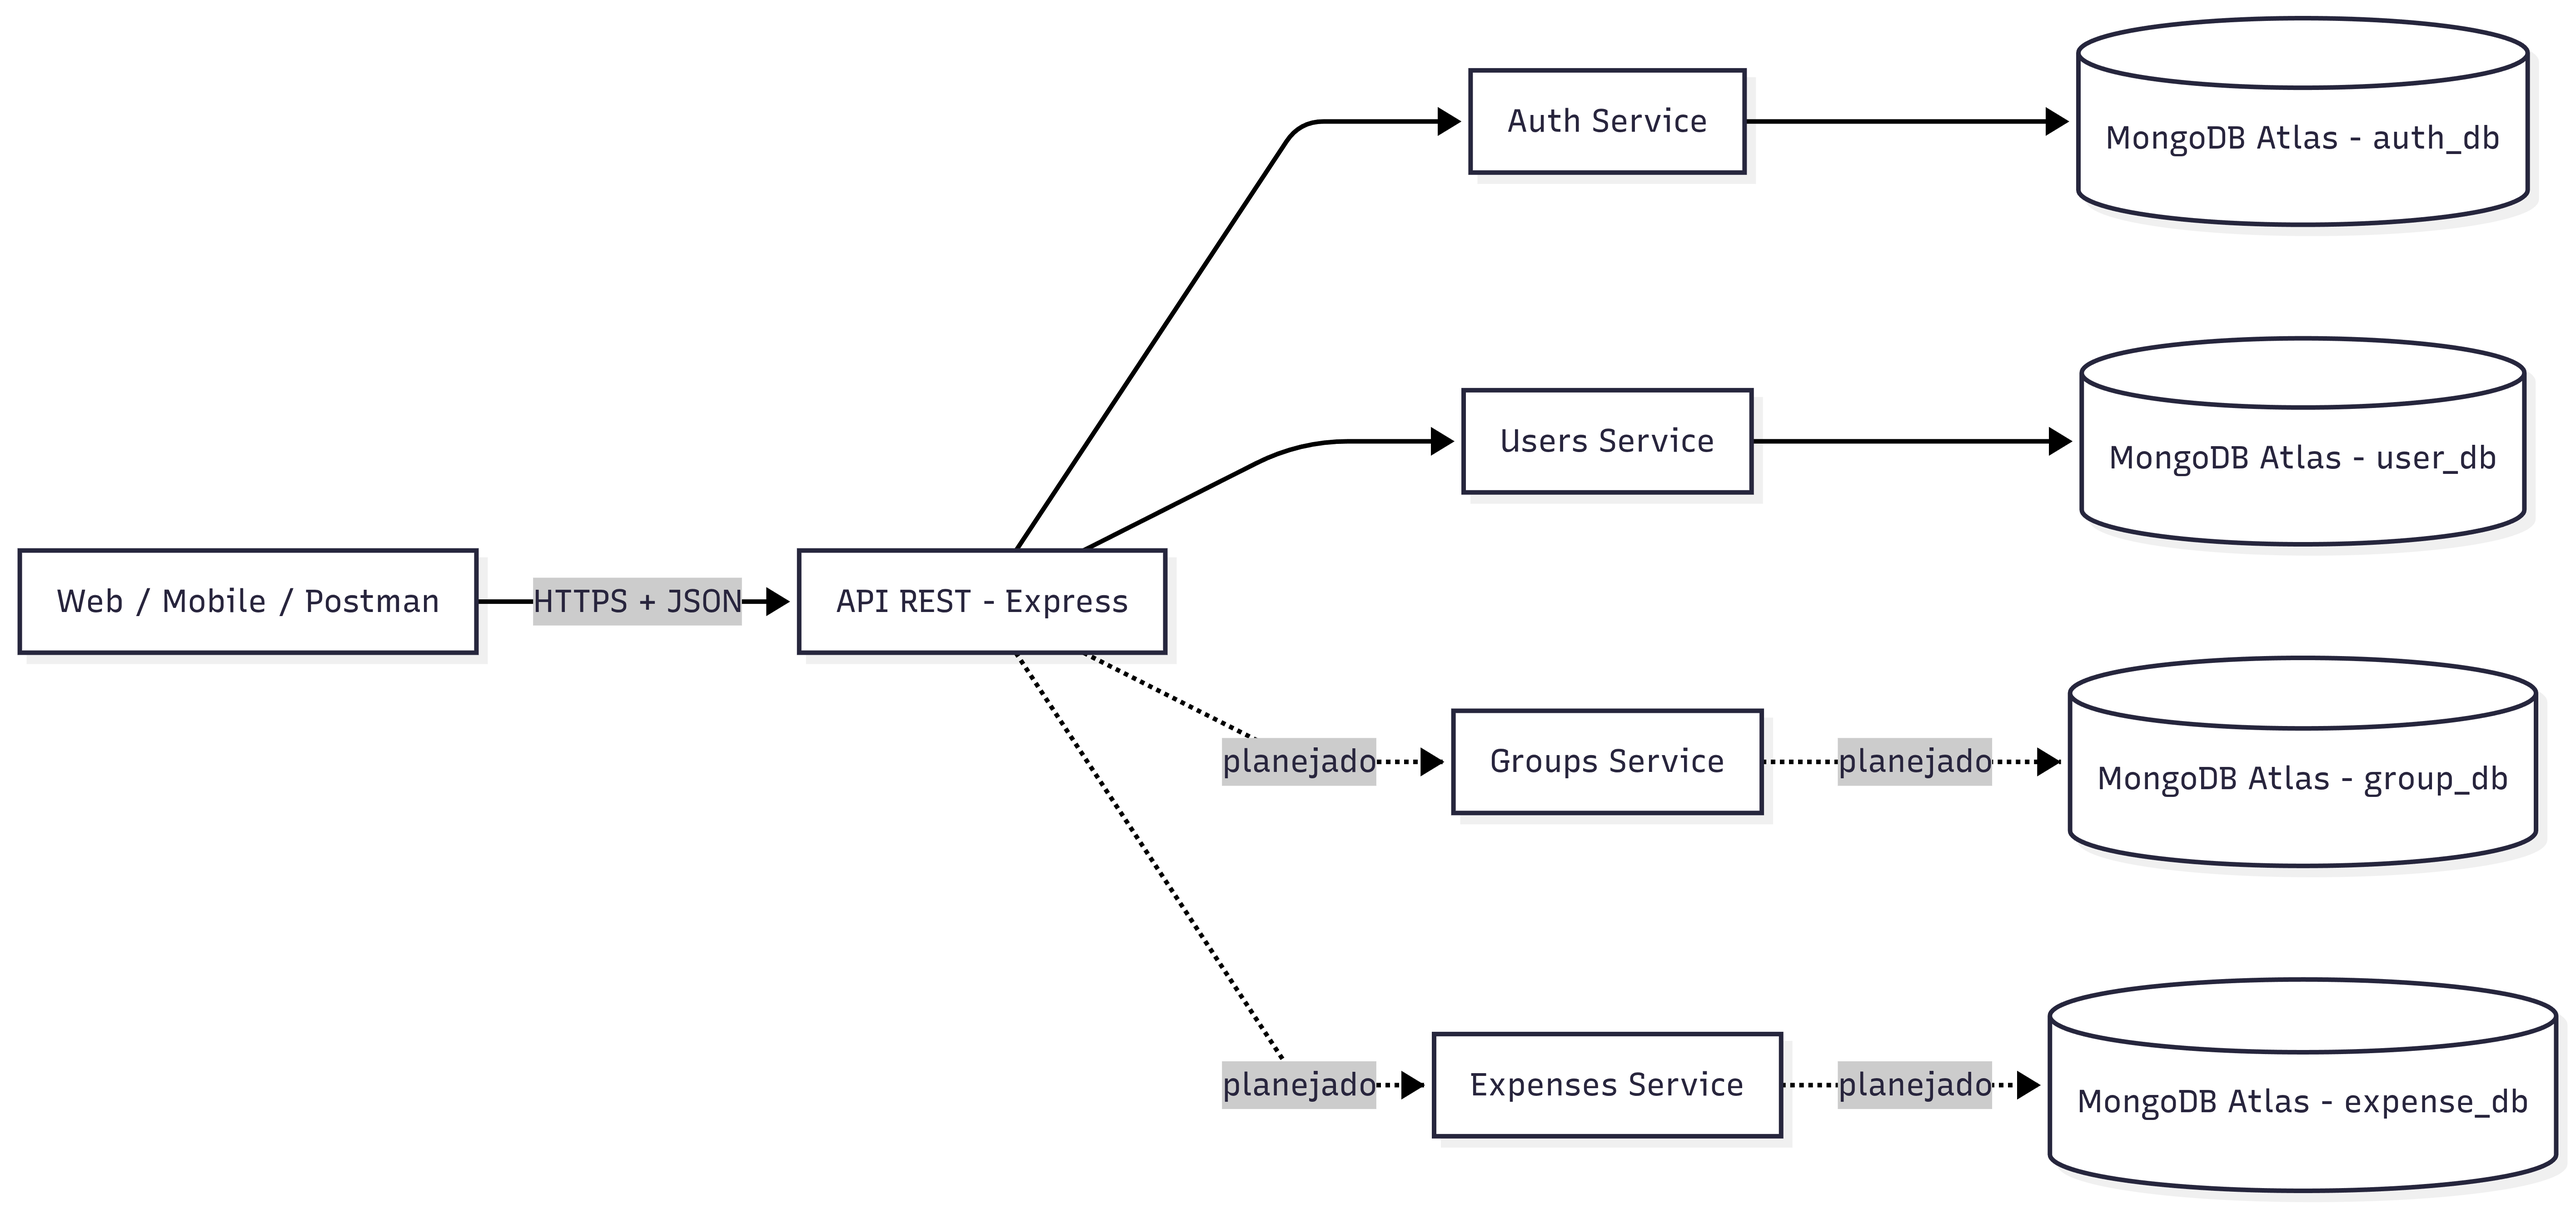
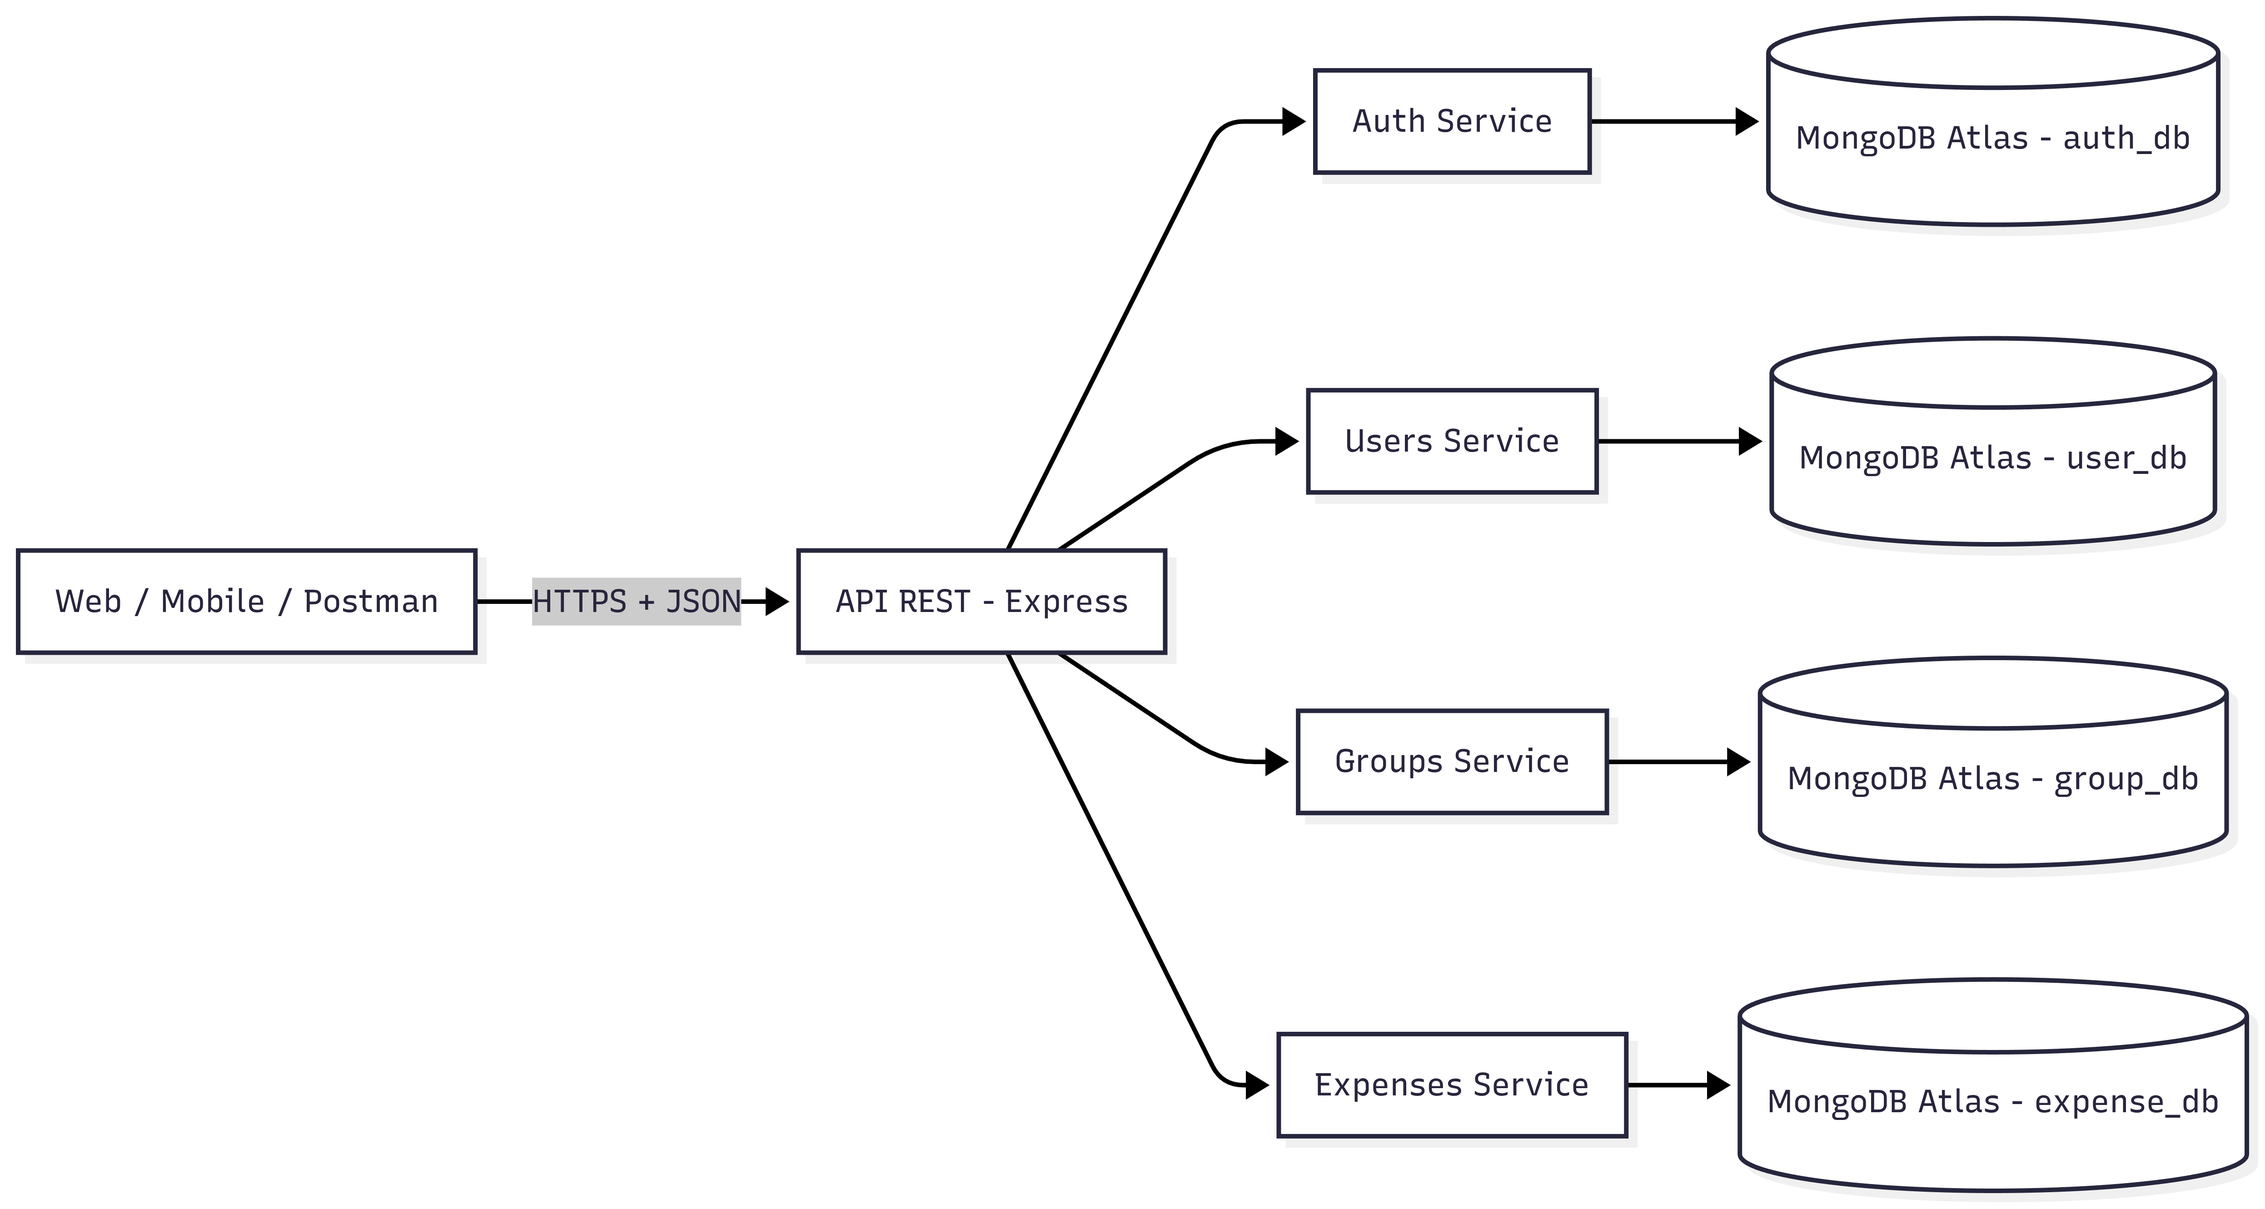
documentacao(arquitetura): garantindo compatibilidade com estado atual do projeto

diff --git a/docs/05-Arquitetura da Solução.md b/docs/05-Arquitetura da Solução.md
@@ -10,7 +10,7 @@ Abaixo, apresentamos o diagrama que ilustra a integração crítica entre os com
 
 ### Detalhamento dos Componentes
 
-A arquitetura do RATE.IO evoluiu para um modelo **orientado a API** com separação de responsabilidades por domínio e soberania de dados por banco. No estado atual, os módulos de **Auth** e **Users** já estão implementados e operacionais no backend; **Groups** e **Expenses** permanecem como próximos incrementos planejados.
+A arquitetura do RATE.IO evoluiu para um modelo **orientado a API** com separação de responsabilidades por domínio e soberania de dados por banco. No estado atual, os módulos de **Auth**, **Users**, **Groups** e **Expenses** já estão implementados e operacionais no backend.
 
 A solução está organizada em quatro camadas:
 
@@ -30,19 +30,19 @@ A solução está organizada em quatro camadas:
 
 - **Auth Service (implementado):** registro, login, hash de senha e emissão de token.
 - **Users Service (implementado):** criação automática e manutenção de perfil de usuário.
-- **Groups Service (planejado):** gestão de grupos, membros e saldos consolidados.
-- **Expenses Service (planejado):** gestão de despesas, divisão e histórico de atividades.
+- **Groups Service (implementado):** gestão de grupos, membros, histórico de atividades e remoção lógica.
+- **Expenses Service (implementado):** gestão de despesas, divisão, quitação de partes e cálculo de saldos.
 
 #### 4. Camada de Dados (MongoDB NoSQL)
 
 - **`auth_db` (implementado):** coleção `auth_credentials`.
 - **`user_db` (implementado):** coleção `user_profiles`.
-- **`group_db` (planejado):** coleção `groups`.
-- **`expense_db` (planejado):** coleções `expenses` e `activities`.
+- **`group_db` (implementado):** coleções `groups` e `activities`.
+- **`expense_db` (implementado):** coleção `expenses`.
 
 ### Arquitetura da Solução Baseada em API
 
-O diagrama abaixo representa o fluxo principal atualmente implementado (Auth + Users) e os domínios previstos para evolução.
+O diagrama abaixo representa o fluxo principal implementado na API, incluindo autenticação, usuários, grupos e despesas.
 
 ![Arquitetura baseada em API](img/APIarquitetura.png)
 
@@ -52,7 +52,7 @@ O diagrama abaixo representa o fluxo principal atualmente implementado (Auth + U
 - **Baixo acoplamento:** separação entre autenticação e perfil reduz impacto de mudanças entre módulos.
 - **Soberania de dados:** cada domínio mantém seu banco, reduzindo dependências de esquema entre contextos.
 - **Segurança:** JWT evita sessão em memória no servidor e simplifica a autenticação distribuída.
-- **Evolução incremental:** permite entregar Auth/Users primeiro e expandir para Groups/Expenses mantendo o mesmo contrato de API.
+- **Evolução incremental:** permitiu entregar Auth/Users primeiro e evoluir para Groups/Expenses mantendo o mesmo contrato de API.
 
 ## Documentação da Implementação da Web API REST
 
@@ -96,8 +96,7 @@ MONGO_URI_EXPENSES=<uri-expense_db>
 
 Regras relevantes do setup atual:
 
-- `MONGO_URI_AUTH` e `MONGO_URI_USERS` são obrigatórias para subir o backend.
-- `MONGO_URI_GROUPS` e `MONGO_URI_EXPENSES` são opcionais neste estágio.
+- `MONGO_URI_AUTH`, `MONGO_URI_USERS`, `MONGO_URI_GROUPS` e `MONGO_URI_EXPENSES` são obrigatórias para subir o backend.
 - O backend inicia apenas após validação e conexão com os bancos obrigatórios.
 - Em produção, falha de conexão encerra o processo para evitar API em estado inconsistente.
 
@@ -119,6 +118,40 @@ Regras relevantes do setup atual:
 - `avatarUrl` (opcional)
 - `isActive` (status lógico)
 - `createdAt` e `updatedAt` (timestamps automáticos)
+
+#### Modelo `Group` (`groups`)
+
+- `name` (obrigatório, trim, mínimo de 2 e máximo de 100 caracteres)
+- `description` (opcional, trim, máximo de 300 caracteres)
+- `createdBy` (ObjectId obrigatório do usuário criador)
+- `members` (array com `userId`, `role` = `admin|member` e `joinedAt`)
+- `isActive` (status lógico para remoção suave)
+- `createdAt` e `updatedAt` (timestamps automáticos)
+- Índice: `members.userId`
+
+#### Modelo `Expense` (`expenses`)
+
+- `groupId` (ObjectId obrigatório, indexado)
+- `description` (obrigatória, trim, máximo de 255 caracteres)
+- `amount` (obrigatório, mínimo de 0.01)
+- `currency` (default `BRL`, enum `BRL|USD`, uppercase)
+- `paidBy` (ObjectId obrigatório do pagador)
+- `createdBy` (ObjectId obrigatório de quem criou a despesa)
+- `splitType` (enum `igual|porcentagem|exato`, default `igual`)
+- `splits` (array obrigatório com `userId`, `amount`, `percentage`, `status`, `paidAt`)
+- `createdAt` e `updatedAt` (timestamps automáticos)
+- Índice composto: `{ groupId: 1, createdAt: -1 }`
+
+#### Modelo `Activity` (`activities`)
+
+- `groupId` (ObjectId obrigatório, indexado)
+- `actorUserId` (ObjectId obrigatório, indexado)
+- `targetUserId` (ObjectId opcional, indexado)
+- `type` (enum `GROUP_CREATED|MEMBER_ADDED|EXPENSE_CREATED|PAYMENT_SETTLED|GROUP_DELETED`)
+- `message` (obrigatória, trim, máximo de 300 caracteres)
+- `metadata` (Mixed, default `{}`)
+- `createdAt` e `updatedAt` (timestamps automáticos)
+- Índice composto: `{ groupId: 1, createdAt: -1 }`
 
 ### Autenticação e autorização
 
@@ -153,11 +186,21 @@ Tratamento de erro de autenticação:
 
 #### Rotas protegidas (`Authorization: Bearer <token>`)
 
-| Método | Rota                 | Descrição                                                 |
-| ------ | -------------------- | --------------------------------------------------------- |
-| POST   | `/api/users`         | Cria perfil (fallback para fluxos sem criação automática) |
-| GET    | `/api/users/profile` | Retorna perfil ativo associado ao `authId` do token       |
-| PUT    | `/api/users/profile` | Atualiza `name` e/ou `avatarUrl` do perfil                |
+| Método | Rota                                    | Descrição                                                                    |
+| ------ | --------------------------------------- | ---------------------------------------------------------------------------- |
+| POST   | `/api/users`                            | Cria perfil (fallback para fluxos sem criação automática)                    |
+| GET    | `/api/users/profile`                    | Retorna perfil ativo associado ao `authId` do token                          |
+| PUT    | `/api/users/profile`                    | Atualiza `name` e/ou `avatarUrl` do perfil                                   |
+| POST   | `/api/groups`                           | Cria grupo e registra atividade de criação                                    |
+| POST   | `/api/groups/:groupId/members`          | Adiciona membro existente ao grupo                                            |
+| POST   | `/api/groups/:groupId/invite`           | Adiciona membro por email (usuário já cadastrado)                            |
+| GET    | `/api/groups/user/:userId`              | Lista grupos ativos em que o usuário participa                                |
+| GET    | `/api/groups/:groupId/activities`       | Lista atividades do grupo (requer `userId` em query)                         |
+| DELETE | `/api/groups/:groupId`                  | Remove grupo logicamente (`isActive=false`) se não houver despesas pendentes |
+| POST   | `/api/expenses`                         | Cria despesa com divisão por tipo (`igual`, `porcentagem`, `exato`)          |
+| GET    | `/api/expenses/group/:groupId`          | Lista despesas do grupo (requer `userId` em query)                           |
+| POST   | `/api/expenses/:expenseId/settle`       | Marca a parte de um usuário como paga em uma despesa                         |
+| GET    | `/api/expenses/group/:groupId/balances` | Retorna saldo consolidado de um usuário no grupo (requer `userId` em query)  |
 
 ### Fluxo de implementação REST (registro e autenticação)
 
@@ -189,11 +232,23 @@ Focado na autenticação, segurança e credenciais de usuário
       "unique": true,
       "required": true
     },
-    "passwordHash": {
+    "password": {
       "type": "String",
       "required": true
     },
+    "lastLogin": {
+      "type": "Date",
+      "default": null
+    },
+    "isActive": {
+      "type": "Boolean",
+      "default": true
+    },
     "createdAt": {
+      "type": "Date",
+      "default": "Date.now"
+    },
+    "updatedAt": {
       "type": "Date",
       "default": "Date.now"
     }
@@ -241,7 +296,7 @@ Implementação atual no backend:
 
 ### group_db
 
-Armazena a estrutura do grupo e o saldo consolidade de cada membro.
+Armazena a estrutura do grupo e o histórico de atividades de colaboração.
 
 ```Json
 // Coleção: groups
@@ -251,32 +306,56 @@ Armazena a estrutura do grupo e o saldo consolidade de cada membro.
       "type": "String",
       "required": true
     },
-    "icon": "String",
-    "description": "Descrição opcional do grupo.",
-    "type": {
+    "description": {
       "type": "String",
-      "enum": ["viagem","moradia","casal","outros"],
-    }, // RF-003 (Flexibilidade)
-    "adminId": "ObjectId", // _id de quem criou o grupo
+      "maxlength": 300
+    },
+    "createdBy": "ObjectId", // _id de quem criou o grupo
     "members": [
         {
-            "userId": "ObjectId", // Referencia ao ID do Auth
-            "name": "String",
-            "balance": {
-              "type": "number",
-              "default": 0
+            "userId": "ObjectId", // Referência ao _id de user_profiles
+            "role": {
+              "type": "String",
+              "enum": ["admin", "member"],
+              "default": "member"
+            },
+            "joinedAt": {
+              "type": "Date",
+              "default": "Date.now"
             }
         },
     ],
+    "isActive": {
+      "type": "Boolean",
+      "default": true
+    },
     "createdAt": "2024-08-29T10:30:00Z",
     "updatedAt": "2024-08-29T11:30:00Z"
 }
 ```
 
+```Json
+// Coleção: activities
+{
+  "_id": "ObjectId",
+  "groupId": "ObjectId",
+  "actorUserId": "ObjectId",
+  "targetUserId": "ObjectId",
+  "type": {
+    "type": "String",
+    "enum": ["GROUP_CREATED", "MEMBER_ADDED", "EXPENSE_CREATED", "PAYMENT_SETTLED", "GROUP_DELETED"]
+  },
+  "message": "String",
+  "metadata": "Mixed",
+  "createdAt": "2024-08-29T10:00:00Z",
+  "updatedAt": "2024-08-29T12:00:00Z"
+}
+```
+
 Status de implementação:
 
-- Banco e URI já previstos em configuração de ambiente.
-- Modelos e rotas ainda não publicados nesta versão do backend.
+- Banco, modelos e rotas já implementados e publicados no backend.
+- Remoção de grupo é lógica por `isActive=false`.
 
 ### expense_db
 
@@ -287,38 +366,60 @@ Armazena as despesas de cada grupo disponíveis no sistema.
 {
   "_id": "ObjectId",
   "groupId": "ObjectId",
-  "description": "String",
-  "totalAmount": "Number",
-  "paidById": "ObjectId",
-  "divisionType": {
+  "description": {
     "type": "String",
-    "enum": ["igualmente","porcentagem", "fixo"]
-  }, // RF-005 (Motor de cálculo do backend)
-  "receiptPhoto": "String",
-  "expenseDetail": [
+    "required": true,
+    "maxlength": 255
+  },
+  "amount": {
+    "type": "Number",
+    "required": true,
+    "min": 0.01
+  },
+  "currency": {
+    "type": "String",
+    "enum": ["BRL", "USD"],
+    "default": "BRL"
+  },
+  "paidBy": "ObjectId",
+  "createdBy": "ObjectId",
+  "splitType": {
+    "type": "String",
+    "enum": ["igual", "porcentagem", "exato"],
+    "default": "igual"
+  },
+  "splits": [
     {
-      "userId": "ObjectId", // Heitor
-      "name": "String",
-      "amoutToPay": "Number" // Sua parte na divisão
+      "userId": "ObjectId",
+      "amount": {
+        "type": "Number",
+        "min": 0
+      },
+      "percentage": {
+        "type": "Number",
+        "min": 0,
+        "max": 100
+      },
+      "status": {
+        "type": "String",
+        "enum": ["pendente", "pago"],
+        "default": "pendente"
+      },
+      "paidAt": {
+        "type": "Date",
+        "default": null
+      }
     }
   ],
-  "date": {"type": "Date", "default": "Date.now"}, // RF-004
-}
-
-// Coleção: activities
-{
-  "_id": "ObjectId",
-  "userId": "ObjectId",
-  "groupId": "ObjectId",
-  "actionDescription": "String",
-  "timestamp": { "type": "Date", "default": "Date.now"}
+  "createdAt": "2024-08-29T10:00:00Z",
+  "updatedAt": "2024-08-29T12:00:00Z"
 }
 ```
 
 Status de implementação:
 
-- Banco e URI já previstos em configuração de ambiente.
-- Modelos e rotas ainda não publicados nesta versão do backend.
+- Banco, modelo e rotas já implementados e publicados no backend.
+- As atividades relacionadas a despesas são registradas em `group_db.activities`.
 
 ### Funcionalidades NoSQL implementadas (armazenamento e recuperação)
 
@@ -345,6 +446,25 @@ No estado atual, as operações NoSQL em produção no backend são:
 
 - Persistência de alterações de `name` e `avatarUrl` em `user_profiles`.
 
+6. **Criação e manutenção de grupos**
+
+- Inserção de grupos em `groups` com `members` e controle de `isActive`.
+- Atualização de membros por inclusão direta e por convite via email.
+
+7. **Criação, consulta e quitação de despesas**
+
+- Inserção de despesas em `expenses` com divisão calculada por tipo.
+- Consulta de despesas por grupo com ordenação por data de criação.
+- Atualização de status de parcelas (`pendente` para `pago`) com registro de data de quitação.
+
+8. **Registro de atividades de grupo**
+
+- Inserção de eventos em `activities` para criação de grupo, adição de membro, criação de despesa, quitação e exclusão lógica.
+
+9. **Consulta de saldos consolidados**
+
+- Leitura de despesas para cálculo de saldo por usuário e grupo via serviço de balanço.
+
 ### Justificativas de escolhas NoSQL no contexto do projeto
 
 - **Flexibilidade de esquema:** os domínios (auth, users, groups, expenses) possuem evolução diferente; documentos permitem adaptação rápida.
@@ -365,30 +485,6 @@ Monitoramento e Logs: Utilize ferramentas de monitoramento e logging para acompa
 
 Escalabilidade: Considere estratégias de sharding e replicação para lidar com crescimento do banco de dados e alta disponibilidade.
 
-### Material de Apoio da Etapa
-
-Na etapa 2, em máterial de apoio, estão disponíveis vídeos com a configuração do mongo.db e a utilização com Bson no C#
-
-## Modelo ER (Somente se tiver mais de um banco e outro for relacional)
-
-O Modelo ER representa através de um diagrama como as entidades (coisas, objetos) se relacionam entre si na aplicação interativa.
-
-As referências abaixo irão auxiliá-lo na geração do artefato “Modelo ER”.
-
-> - [Como fazer um diagrama entidade relacionamento | Lucidchart](https://www.lucidchart.com/pages/pt/como-fazer-um-diagrama-entidade-relacionamento)
-
-## Esquema Relacional (Somente se tiver mais de um banco e outro for relacional)
-
-O Esquema Relacional corresponde à representação dos dados em tabelas juntamente com as restrições de integridade e chave primária.
-
-As referências abaixo irão auxiliá-lo na geração do artefato “Esquema Relacional”.
-
-> - [Criando um modelo relacional - Documentação da IBM](https://www.ibm.com/docs/pt-br/cognos-analytics/10.2.2?topic=designer-creating-relational-model)
-
-## Modelo Físico (Somente se tiver mais de um banco e outro for relacional)
-
-Entregar um arquivo banco.sql contendo os scripts de criação das tabelas do banco de dados. Este arquivo deverá ser incluído dentro da pasta src\bd.
-
 ## Tecnologias Utilizadas
 
 As tecnologias adotadas para a arquitetura atual são:
@@ -404,17 +500,7 @@ As tecnologias adotadas para a arquitetura atual são:
 
 Diagrama de relação entre tecnologias:
 
-```mermaid
-flowchart TD
-  FE[React Web / React Native] --> API[Express API]
-  DKR[Docker Compose + Dockerfile] --> API
-  QA[Postman] --> API
-  API --> SEC[JWT + bcryptjs]
-  API --> ODM[Mongoose]
-  ODM --> MDB[MongoDB Atlas]
-  ENV[dotenv/.env] --> API
-  DEV[ESLint + Prettier + Nodemon] --> API
-```
+![Diagrama de relação entre tecnologias](img/techDiagram.png)
 
 ## Hospedagem
 
